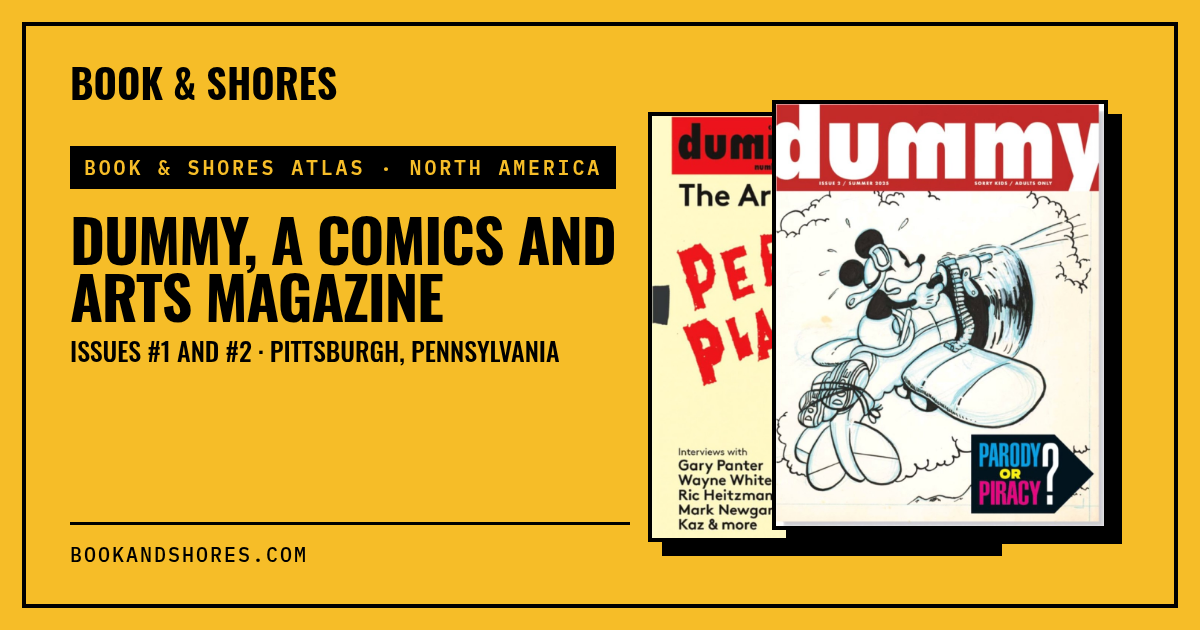
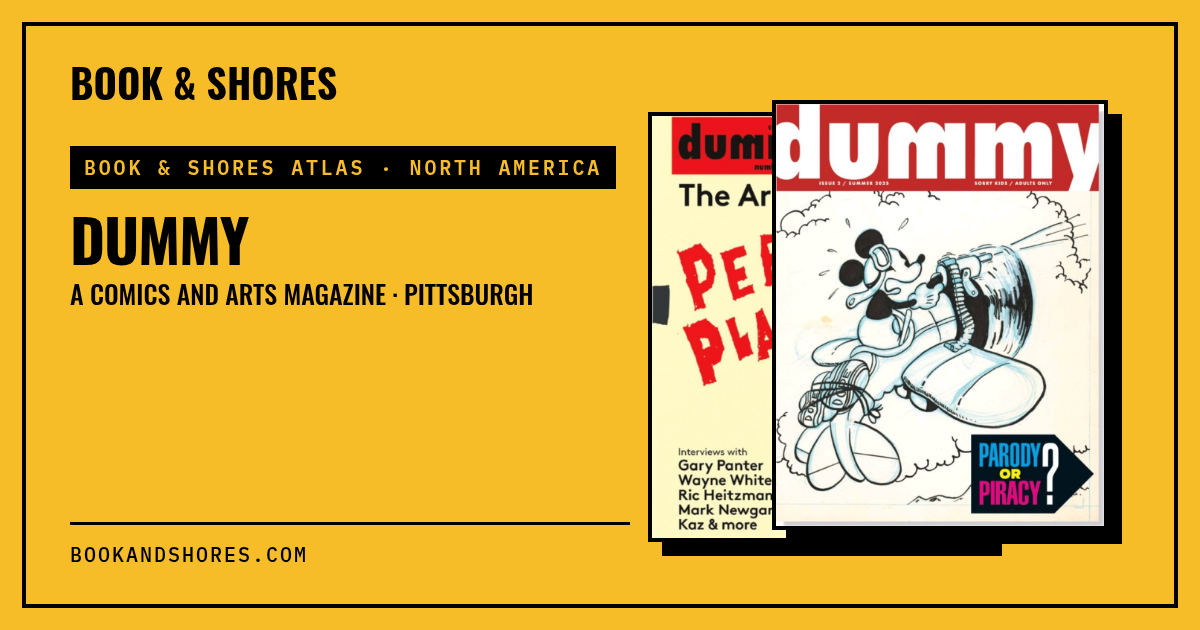
Dummy pin: DUMMY title with lighter subline

Changed region(s): [[0.0617, 0.3317, 0.5242, 0.5127], [0.0617, 0.5429, 0.4625, 0.573]]

diff --git a/atlas-pittsburgh.html b/atlas-pittsburgh.html
@@ -8,11 +8,11 @@
     <link rel="icon" type="image/png" sizes="32x32" href="/favicon-32.png">
     <link rel="apple-touch-icon" href="/apple-touch-icon.png">
     <link rel="manifest" href="site.webmanifest">
-    <title>Dummy, a comics and arts magazine, Pittsburgh, Pennsylvania | Book &amp; Shores Atlas · Go There. Read It.</title>
+    <title>Dummy · A comics and arts magazine · Pittsburgh, Pennsylvania | Book &amp; Shores Atlas · Go There. Read It.</title>
     <meta name="description" content="Dummy, the comics and arts magazine edited and published by John Kelly in Pittsburgh, is pinned on the Book &amp; Shores Literary Atlas: issues #1 and #2, with sources cited.">
     <link rel="canonical" href="https://bookandshores.com/atlas-pittsburgh.html">
     <meta property="og:type" content="website">
-    <meta property="og:title" content="Dummy, a comics and arts magazine, Pittsburgh, Pennsylvania | Book &amp; Shores Atlas · Go There. Read It.">
+    <meta property="og:title" content="Dummy · A comics and arts magazine · Pittsburgh, Pennsylvania | Book &amp; Shores Atlas · Go There. Read It.">
     <meta property="og:description" content="Dummy, the comics and arts magazine edited and published by John Kelly in Pittsburgh, is pinned on the Book &amp; Shores Literary Atlas: issues #1 and #2, with sources cited.">
     <meta property="og:url" content="https://bookandshores.com/atlas-pittsburgh.html">
     <meta property="og:image" content="https://bookandshores.com/og/atlas-pittsburgh.png">
@@ -230,7 +230,7 @@
         <p class="crumbs"><a href="atlas.html">Atlas</a> › <a href="atlas-pins.html">All the pins</a> › Pittsburgh, Pennsylvania</p>
         <section class="place-hero">
             <p class="eyebrow">Book &amp; Shores Atlas · North America</p>
-            <h2>Dummy, a comics and arts magazine, Pittsburgh, Pennsylvania</h2>
+            <h2>Dummy</h2><p style="font-family:Oswald,sans-serif;font-weight:400;font-size:clamp(1.2rem,3.5vw,1.6rem);text-transform:none;margin:0 0 0.8rem;">A comics and arts magazine · Pittsburgh, Pennsylvania</p>
             <p>2 issues pinned here. The pin marks the named place.</p>
             <p style="margin-top:1rem;"><a class="btn" style="width:auto;" href="atlas.html#pittsburgh">See it on the map →</a></p>
         </section>

diff --git a/atlas-data.js b/atlas-data.js
@@ -523,7 +523,7 @@ window.bsAtlas = [
       srcUrl: "https://www.thesaturdaypaper.com.au/culture/books/2020/02/29/baron-wenckheims-homecoming/15804756009327",
       src: "The Saturday Paper: \"The unnamed town is a lightly fictionalised version of Gyula, a city of some 30,000 souls in Békés County, near the Romanian border\"; Kirkus review: he \"returns to the countryside haunts of his youth\"" }
   ]},
-  { id: "pittsburgh", name: "Pittsburgh, Pennsylvania", heading: "Dummy, a comics and arts magazine", cardBy: "Issues #1 and #2 · Pittsburgh, Pennsylvania", desc: "Dummy, the comics and arts magazine edited and published by John Kelly in Pittsburgh, is pinned on the Book & Shores Literary Atlas: issues #1 and #2, with sources cited.", lng: -79.9959, lat: 40.4406, area: false, cc: "US", cont: "North America", reg: ["pittsburgh", "pennsylvania", "pa", "steel city"], books: [
+  { id: "pittsburgh", name: "Pittsburgh, Pennsylvania", heading: "Dummy", sub: "A comics and arts magazine · Pittsburgh, Pennsylvania", cardBy: "A comics and arts magazine · Pittsburgh", desc: "Dummy, the comics and arts magazine edited and published by John Kelly in Pittsburgh, is pinned on the Book & Shores Literary Atlas: issues #1 and #2, with sources cited.", lng: -79.9959, lat: 40.4406, area: false, cc: "US", cont: "North America", reg: ["pittsburgh", "pennsylvania", "pa", "steel city"], books: [
     { title: "Dummy Magazine #1", author: "John Kelly, editor and publisher", cover: "atlas/cover-dummy-1.jpg",
       setting: "Pittsburgh, where Dummy, a comics and arts magazine, is edited and published", note: "Dummy is a comics and arts magazine with a deep affection for art and its makers. Each issue looks closely at creative process, historical material and rarely seen images. Issue #1: The Art of Pee-wee’s Playhouse. Book and Shores, an independent bookstore, pins Dummy with gratitude for its contribution to the literary arts. Image courtesy Dummy.",
       page: "bookstore.html",

diff --git a/scripts/build_atlas_pages.py b/scripts/build_atlas_pages.py
@@ -162,7 +162,7 @@ def place_page(p, routes):
     url = f"{SITE}/atlas-{p['id']}.html"
     n = len(p["books"])
     titles = ", ".join(b["title"] for b in p["books"])
-    title = f"{p['heading']}, {p['name']} | Book & Shores Atlas · Go There. Read It." if p.get("heading") else f"Books Set in {p['name']} | Book & Shores Atlas · Go There. Read It."
+    title = f"{p['heading']} · {p.get('sub', p['name'])} | Book & Shores Atlas · Go There. Read It." if p.get("heading") else f"Books Set in {p['name']} | Book & Shores Atlas · Go There. Read It."
     desc = f"{n} book{'s' if n != 1 else ''} on the Book & Shores Atlas set in {p['name']}: {titles}. Each setting is cited from the book, its publisher or a major review."
     if p.get("desc"): desc = p["desc"]
     if len(desc) > 300: desc = desc[:297].rsplit(" ", 1)[0] + "…"
@@ -181,7 +181,7 @@ def place_page(p, routes):
     out.append(f'        <p class="crumbs"><a href="atlas.html">Atlas</a> › <a href="atlas-pins.html">All the pins</a> › {e(p["name"])}</p>\n')
     out.append(f"""        <section class="place-hero">
             <p class="eyebrow">Book &amp; Shores Atlas · {e(p.get('cont', ''))}</p>
-            <h2>{e(p['heading'] + ', ' + p['name']) if p.get('heading') else 'Books set in ' + e(p['name'])}</h2>
+            <h2>{e(p['heading']) if p.get('heading') else 'Books set in ' + e(p['name'])}</h2>{('<p style="font-family:Oswald,sans-serif;font-weight:400;font-size:clamp(1.2rem,3.5vw,1.6rem);text-transform:none;margin:0 0 0.8rem;">' + e(p['sub']) + '</p>') if p.get('sub') else ''}
             <p>{(str(n) + ' issues pinned here.') if p.get('heading') else (str(n) + ' book' + ('s' if n != 1 else '') + ' pinned here.')} {'The book names a region, not an exact address, so the pin sits inside the area.' if p.get('area') else 'The pin marks the named place.'}</p>
             <p style="margin-top:1rem;"><a class="btn" style="width:auto;" href="atlas.html#{e(p['id'])}">See it on the map →</a></p>
         </section>
